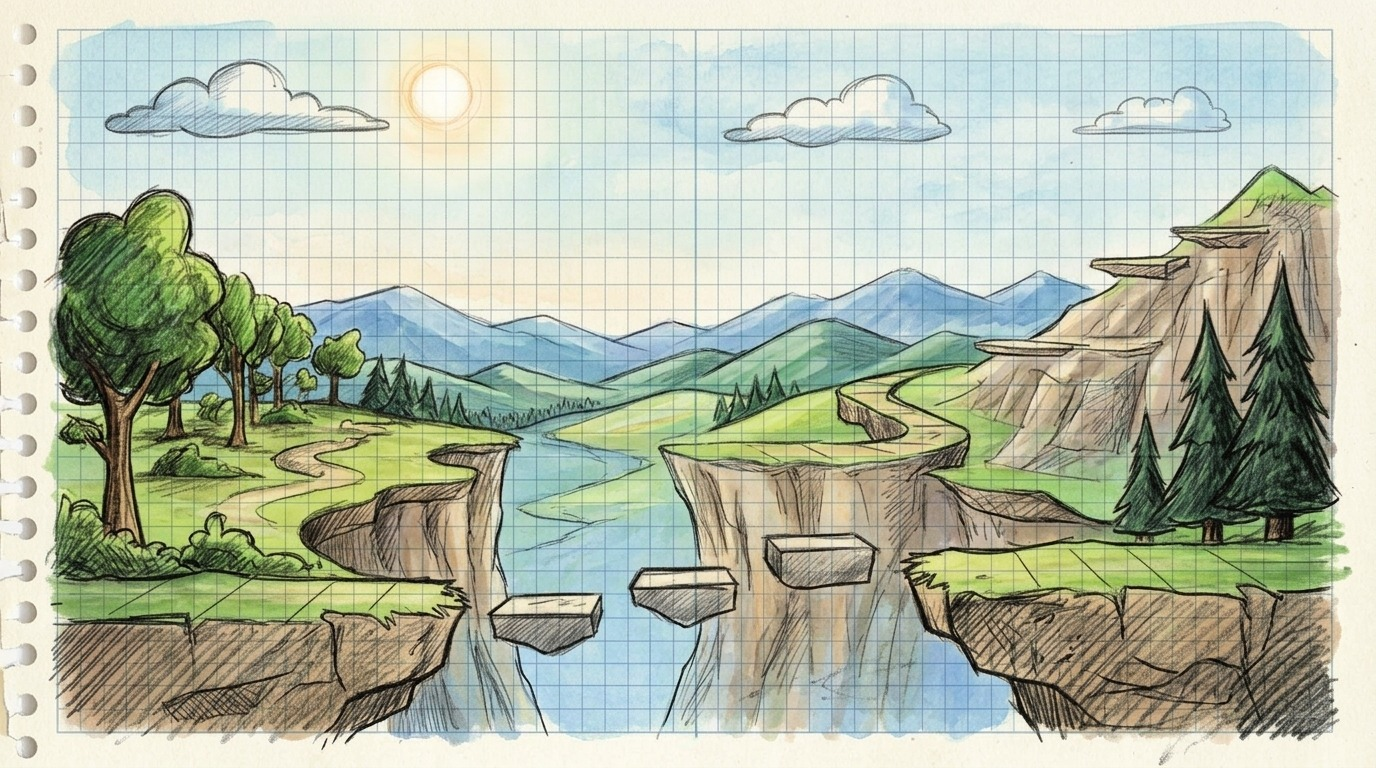
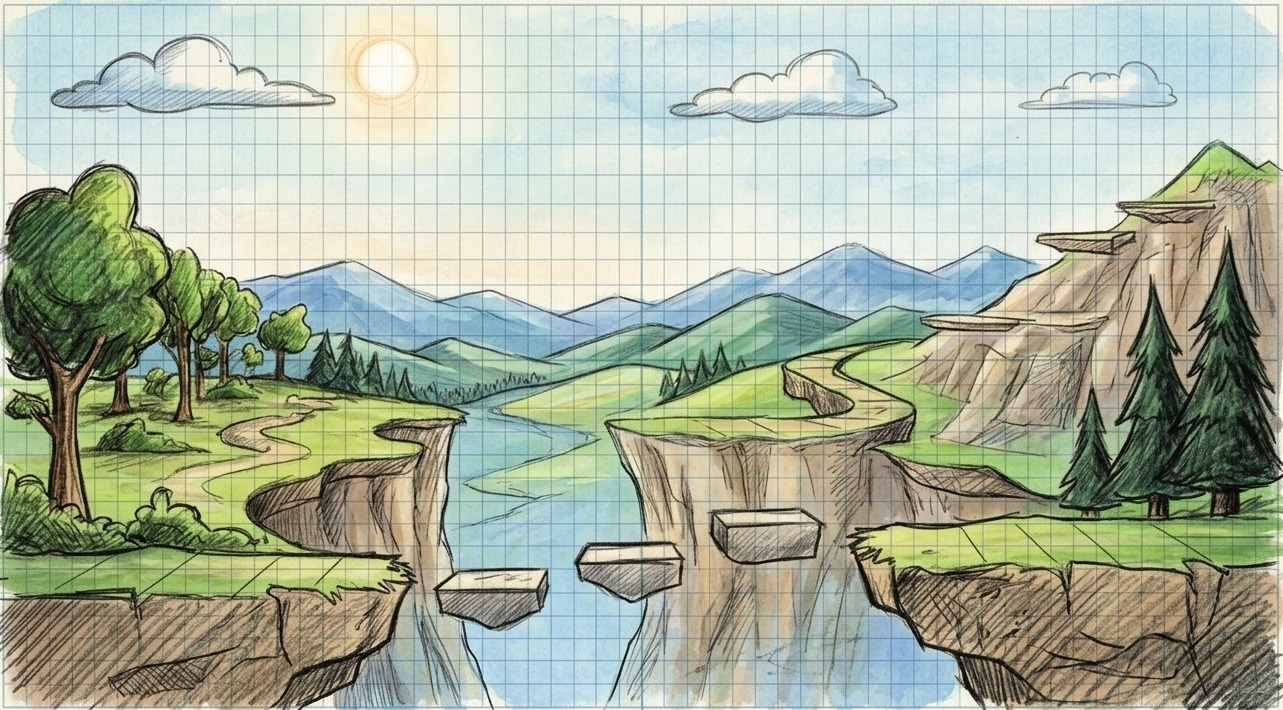
Inicializado mecanica principal

diff --git a/Function_Wars/main.c b/Function_Wars/main.c
@@ -1,21 +1,45 @@
+#include <stdlib.h>
+#include <stdio.h>
+#include <math.h>
+#include <string.h>
 #include <allegro5/allegro.h>
 #include <allegro5/allegro_font.h>
 #include <allegro5/allegro_image.h>
+#include <allegro5/allegro_primitives.h>
 #include <allegro5/keyboard.h>
+#include "funcoes.h"
 
-// largura do sprite do mago: 424 / 4 = 106
-// altura do sprite do mago: 636 / 4 = 159
+bool checar_colisao(float x1, float y1, float w1, float h1, float x2, float y2, float w2, float h2) {
+    if (x1 + w1 > x2 &&
+        x1 < x2 + w2 &&
+        y1 + h1 > y2 &&
+        y1 < y2 + h2) {
+        return true;
+    }
+    return false;
+}
 
-//exemplo so de como usar o allegro para criar uma janela e desenhar um sprite animado
-//o main será onde vamos reunir todas as funcoes que vamos criar para o jogo, como a tela de menu, a tela de jogo, etc.
+int display_alt = 1280;
+int display_larg = 720;
+
+ParametrosFuncao funcao_jogador;
+
+int coeficiente_selecionado = 0;
+float valor_a = -0.004f;
+float valor_b = 3;
+float valor_c = 0;
+char entrada_a[20] = "";
+bool digitando_a = true;
 
 int main() {
     al_init();
     al_init_font_addon();
     al_init_image_addon();
+    al_init_primitives_addon();
     al_install_keyboard();
+    al_install_mouse();
 
-    ALLEGRO_DISPLAY* display = al_create_display(1280, 720);
+    ALLEGRO_DISPLAY* display = al_create_display(display_alt, display_larg);
     al_set_window_position(display, 200, 200);
     al_set_window_title(display, "Function Wars");
 
@@ -23,18 +47,48 @@ int main() {
     ALLEGRO_TIMER* timer = al_create_timer(1.0 / 30.0);
 
     ALLEGRO_BITMAP* mage = al_load_bitmap("./mage_spritesheet.png");
+    ALLEGRO_BITMAP* alvo = al_load_bitmap("./alvo.png");
     ALLEGRO_BITMAP* background1 = al_load_bitmap("./background1.png");
 
     ALLEGRO_EVENT_QUEUE* event_queue = al_create_event_queue();
     al_register_event_source(event_queue, al_get_display_event_source(display));
     al_register_event_source(event_queue, al_get_timer_event_source(timer));
+    al_register_event_source(event_queue, al_get_mouse_event_source());
     al_register_event_source(event_queue, al_get_keyboard_event_source());
     al_start_timer(timer);
 
-    float frame = 0.0f;
-    int pos_x = 70, pos_y = 450;
-    int current_frame_y = 0;
     bool redraw = true;
+
+    //informacoes do mago
+    float frame = 0.0f;
+    int pos_x = 80, pos_y = 430;
+    int current_frame_y = 0;
+    int pontos_vida = 3;
+
+
+    //informacoes do inimigo
+    float inimigo_x = 980.0f;
+    float inimigo_y = 400.0f;
+    float inimigo_largura = 106.0f;
+    float inimigo_altura = 159.0f;
+
+    //essa parte toda é do projetil
+    float tiro_hitbox_x = pos_x;
+    float tiro_hitbox_y = pos_y;
+    float tiro_hitbox_larg = 16;
+    float tiro_hitbox_alt = 16;
+    bool  projetil_ativo = false;
+    float projetil_origem_x = 0.0f;
+    float projetil_origem_y = 0.0f;
+    float projetil_distancia = 0.0f;
+    float projetil_velocidade = 10.0f;
+    ParametrosFuncao funcao_do_disparo;
+    funcao_do_disparo.tipo = FUNCAO_QUADRATICA;
+    funcao_do_disparo.a = valor_a;
+    funcao_do_disparo.b = valor_b;
+    funcao_do_disparo.c = valor_c;
+
+
 
     bool keys[ALLEGRO_KEY_MAX] = { false };
 
@@ -45,31 +99,53 @@ int main() {
         if (event.type == ALLEGRO_EVENT_DISPLAY_CLOSE) {
             break;
         }
-        else if (event.type == ALLEGRO_EVENT_KEY_DOWN) {
+        if (event.type == ALLEGRO_EVENT_KEY_DOWN) {
             keys[event.keyboard.keycode] = true;
         }
-        else if (event.type == ALLEGRO_EVENT_KEY_UP) {
+        // aqui faz a variavel do coeficiente a alterar de valor
+        if (event.type == ALLEGRO_EVENT_KEY_CHAR) {
+            if (digitando_a) {
+                if (event.keyboard.keycode == ALLEGRO_KEY_BACKSPACE) {
+                    int tamanho = strlen(entrada_a);
+                    if (tamanho > 0) {
+                        entrada_a[tamanho - 1] = '\0';
+                    }
+                }
+                else {
+                    char c = (char)event.keyboard.unichar;
+                    if ((c >= '0' && c <= '9') || c == '.' || c == '-') {
+                        int tamanho = strlen(entrada_a);
+                        if (tamanho < 19) {
+                            entrada_a[tamanho] = c;
+                            entrada_a[tamanho + 1] = '\0';
+                        }
+                    }
+                }
+            }
+        }
+
+        // aqui faz o projetil ser lançado
+        if (event.keyboard.keycode == ALLEGRO_KEY_SPACE && !projetil_ativo) {
+
+            projetil_ativo = true;
+
+            projetil_origem_x = pos_x + 90;
+            projetil_origem_y = pos_y + 80;
+
+            projetil_distancia = 0;
+        }
+        if (event.type == ALLEGRO_EVENT_KEY_UP) {
             keys[event.keyboard.keycode] = false;
         }
-        else if (event.type == ALLEGRO_EVENT_TIMER) {
+        if (event.type == ALLEGRO_EVENT_TIMER) {
             bool moving = false;
 
-            if (keys[ALLEGRO_KEY_UP]) {
-                current_frame_y = 159 * 3;
-                pos_y -= 5;
-                moving = true;
-            }
-            if (keys[ALLEGRO_KEY_DOWN]) {
-                current_frame_y = 0;
-                pos_y += 5;
-                moving = true;
-            }
-            if (keys[ALLEGRO_KEY_LEFT]) {
+            if (keys[ALLEGRO_KEY_LEFT] || keys[ALLEGRO_KEY_A]) {
                 current_frame_y = 159;
                 pos_x -= 5;
                 moving = true;
             }
-            if (keys[ALLEGRO_KEY_RIGHT]) {
+            if (keys[ALLEGRO_KEY_RIGHT] || keys[ALLEGRO_KEY_D]) {
                 current_frame_y = 159 * 2;
                 pos_x += 5;
                 moving = true;
@@ -84,8 +160,38 @@ int main() {
             else {
                 frame = 0.0f;
             }
+            if (pos_x >= 300) {
+                pos_x -= 5;
+            }
+            if (pos_x <= 0) {
+                pos_x += 5;
+            }
 
             redraw = true;
+
+            //aqui faz o projetil se locomover de acordo com a funcao que ta ali em cima, faz a hitbox dele e checa a colisao com o inimigo
+            if (projetil_ativo) {
+
+                projetil_distancia += projetil_velocidade;
+
+                float y = calcular_y(projetil_distancia, funcao_do_disparo);
+
+                tiro_hitbox_x = projetil_origem_x + projetil_distancia;
+                tiro_hitbox_y = projetil_origem_y - y;
+
+                if (tiro_hitbox_x > display_alt) {
+                    projetil_ativo = false;
+                }
+            }
+            //se acertar o projetil desaparece e mostra no terminal que ele acertou
+            if (projetil_ativo) {
+
+                if (checar_colisao(tiro_hitbox_x - 8, tiro_hitbox_y - 8, tiro_hitbox_larg, tiro_hitbox_alt, inimigo_x, inimigo_y, inimigo_largura, inimigo_altura)) {
+                    projetil_ativo = false;
+
+                    printf("ACERTOU!\n");
+                }
+            }
         }
 
         if (redraw && al_is_event_queue_empty(event_queue)) {
@@ -93,17 +199,48 @@ int main() {
 
             al_clear_to_color(al_map_rgb(255, 255, 255));
             al_draw_bitmap(background1, 0, 0, 0);
+
+            calcular_y(projetil_distancia, funcao_do_disparo);
+
+            // Desenha a trajetória da função
+            desenhar_trajetoria(pos_x + 90, pos_y + 80, 1000, funcao_do_disparo, al_map_rgb(30, 80, 220));
+
+            // vai ta pequeno, mas quando voce abre e digita, vai ter um A: que recebe os numeros que o usuario digitar
+            al_draw_text(font, al_map_rgb(0, 0, 0), 50, 50, 0, "A:");
+            al_draw_text(font, al_map_rgb(0, 0, 0), 80, 50, 0, entrada_a);
+
             al_draw_bitmap_region(mage, 106 * (int)frame, current_frame_y, 106, 159, pos_x, pos_y, 0);
-            al_draw_text(font, al_map_rgb(0, 0, 0), 5, 5, 0, "Function Wars");
+            //aqui desenha o projetil que é um circulo vermelho pequeno
+            if (projetil_ativo) {
+                al_draw_filled_circle(tiro_hitbox_x, tiro_hitbox_y, 8, al_map_rgb(255, 0, 0));
+            }
+            al_draw_bitmap_region(alvo, 0, 159, 106, 159, inimigo_x, inimigo_y, 0);
+
+            //hitbox do inimigo
+            al_draw_rectangle(inimigo_x, inimigo_y,
+                inimigo_x + inimigo_largura,
+                inimigo_y + inimigo_altura,
+                al_map_rgb(255, 0, 0), 1.0f);
+
+            //aqui vai ser incrementado mais pra frente, mas vai ter que colocar a mecanica de vida
+            al_draw_textf(font, al_map_rgb(0, 0, 0), 5, 5, 0, "Pontos de vida %d", pontos_vida);
+            al_draw_text(font, al_map_rgb(30, 30, 30), 500, 40, 0, "FASE 1: Ajuste a funcao e acerte o alvo!");
+
             al_flip_display();
         }
     }
 
     al_destroy_bitmap(mage);
+    al_destroy_bitmap(alvo);
+    al_destroy_bitmap(background1);
     al_destroy_timer(timer);
     al_destroy_font(font);
     al_destroy_display(display);
     al_destroy_event_queue(event_queue);
+
+    al_shutdown_primitives_addon();
+    al_shutdown_image_addon();
+    al_shutdown_font_addon();
 
     return 0;
 }

diff --git a/Function_Wars/funcoes.c b/Function_Wars/funcoes.c
@@ -1,1 +1,38 @@
-// criar as funcoes que serao utilizadas no programa principal (linear, quadratica, exponencial, etc)
+#include "funcoes.h"
+
+float calcular_y(float x, ParametrosFuncao f) {
+    switch (f.tipo) {
+    case FUNCAO_LINEAR:
+        return (f.a * x) + f.b;
+
+    case FUNCAO_QUADRATICA:
+        return (f.a * (x * x)) + (f.b * x) + f.c;
+
+    case FUNCAO_LOGARITMICA:
+        return powf(f.a, x);
+
+    case FUNCAO_TRIGONOMETRICA:
+        //em construcao ainda
+
+    default:
+        return 0.0f;
+    }
+}
+
+void desenhar_trajetoria(float origem_x, float origem_y, float alcance_max,
+    ParametrosFuncao f, ALLEGRO_COLOR cor)
+{
+    float passo = 2.0f;
+    float x_anterior = origem_x;
+    float y_anterior = origem_y - calcular_y(0, f);
+
+    for (float x = passo; x <= alcance_max; x += passo) {
+        float y_calc = calcular_y(x, f);
+        float x_atual = origem_x + x;
+        float y_atual = origem_y - y_calc;
+
+        al_draw_line(x_anterior, y_anterior, x_atual, y_atual, cor, 2.0f);
+        x_anterior = x_atual;
+        y_anterior = y_atual;
+    }
+}

diff --git a/Function_Wars/funcoes.h b/Function_Wars/funcoes.h
@@ -1,6 +1,27 @@
-#ifndef FUNCOES
-#define FUNCOES
+#ifndef FUNCOES_H
+#define FUNCOES_H
 
-//escrever as funções que serão usadas no jogo
+#include <allegro5/allegro.h>
+#include <allegro5/allegro_primitives.h>
+#include <math.h>
 
-#endif // FUNCOES
+typedef enum {
+    FUNCAO_LINEAR,
+    FUNCAO_QUADRATICA,
+    FUNCAO_LOGARITMICA,
+    FUNCAO_TRIGONOMETRICA
+} TipoFuncao;
+
+typedef struct {
+    TipoFuncao tipo;
+    float a;
+    float b;
+    float c;
+} ParametrosFuncao;
+
+float calcular_y(float x, ParametrosFuncao f);
+
+void desenhar_trajetoria(float origem_x, float origem_y, float alcance_max,
+    ParametrosFuncao f, ALLEGRO_COLOR cor);
+
+#endif
